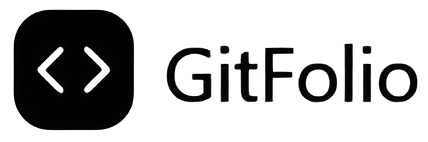
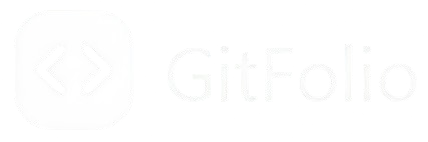
Email sending functions init

Changed region(s): [[0.0304, 0.0563, 0.3341, 0.9296], [0.3645, 0.2817, 1.0, 0.7324]]

diff --git a/packages/email/src/templates/Wrapper.tsx b/packages/email/src/templates/Wrapper.tsx
@@ -21,7 +21,10 @@ import { config } from "../config";
 export const Wrapper = ({ children }: { children: React.ReactNode }) => {
   return (
     <Html>
-      <Head />
+      <Head>
+        <meta name="color-scheme" content="light" />
+        <meta name="supported-color-schemes" content="light" />
+      </Head>
       <Tailwind
         config={{
           presets: [pixelBasedPreset],
@@ -40,19 +43,35 @@ export const Wrapper = ({ children }: { children: React.ReactNode }) => {
           },
         }}
       >
-        <Body className="bg-offwhite font-sans text-base">
+        <Body
+          className="force-light font-sans text-base"
+          style={{
+            backgroundColor: "white",
+          }}
+        >
           <Img
             src={`${config.URLS.site_url}/assets/brand-light.png`}
-            alt="Netlify"
-            className="mx-auto my-20 object-cover w-[35%]"
+            alt="GitFolio"
+            className="mx-auto my-20 object-cover w-[35%] brand-logo"
           />
-          <Container className="bg-white p-45">
+
+          <Container
+            className=" force-light p-45"
+            style={{
+              backgroundColor: "white",
+            }}
+          >
             <Heading className="my-0 text-center leading-8">
               Welcome to GitFolio
             </Heading>
 
             {children}
-            <Section className="text-center mt-10">
+            <Section
+              style={{
+                backgroundColor: "white",
+              }}
+              className="text-center mt-10"
+            >
               <table className="w-full">
                 <tr className="w-full">
                   <td align="center">
@@ -75,7 +94,10 @@ export const Wrapper = ({ children }: { children: React.ReactNode }) => {
                     <Row className="table-cell h-[44px] w-[56px] align-bottom">
                       <Column className="pr-[8px] w-full h-full">
                         <Link href={config.social_links.x}>
-                          <Img className="size-7" src={`${config.URLS.site_url}/icons/x.png`} />
+                          <Img
+                            className="size-7"
+                            src={`${config.URLS.site_url}/icons/x.png`}
+                          />
                         </Link>
                       </Column>
                       <Column className="pr-[8px] w-full h-full">
@@ -83,7 +105,8 @@ export const Wrapper = ({ children }: { children: React.ReactNode }) => {
                           href={config.social_links.linkedin}
                           className="w-full h-full"
                         >
-                          <Img className="size-7"
+                          <Img
+                            className="size-7"
                             src={`${config.URLS.site_url}/icons/linkedin.png`}
                           />
                         </Link>
@@ -91,15 +114,8 @@ export const Wrapper = ({ children }: { children: React.ReactNode }) => {
                       <Column className="pr-[8px] w-full h-full">
                         <Link href={config.social_links.github}>
                           <Img
-                          className="size-7"
+                            className="size-7"
                             src={`${config.URLS.site_url}/icons/github-black.png`}
-                          />
-                        </Link>
-                      </Column>
-                      <Column>
-                        <Link href={config.social_links.peerlist}>
-                          <Img src={`${config.URLS.site_url}/icons/peerlist.png`} 
-                          className="size-7"
                           />
                         </Link>
                       </Column>

diff --git a/packages/email/src/templates/WelcomeEmail.tsx b/packages/email/src/templates/WelcomeEmail.tsx
@@ -1,52 +1,64 @@
-import { Button, Link, Preview, Row, Section, Text } from "@react-email/components";
+import {
+  Button,
+  Link,
+  Preview,
+  Row,
+  Section,
+  Text,
+} from "@react-email/components";
 import Wrapper from "./Wrapper";
 
-import React from 'react'
+import React from "react";
 import { config } from "../config";
 
-const WelcomeEmail = ({name}:{name:string}) => {
+const WelcomeEmail = ({ name }: { name: string }) => {
   return (
     <Wrapper>
       <Preview>GitFolio Welcome</Preview>
+      <Section
+      style={{
+            backgroundColor:"white"
+          }}
+      >
+        <Row>
+          <Text className="text-base font-semibold">
+            Thanks for joining GitFolio! Let's build your developer portfolio
+          </Text>
+        </Row>
+      </Section>
+
       <Section>
-              <Row>
-                <Text className="text-base font-semibold">
-                  Thanks for joining GitFolio! Let's build your developer
-                  portfolio
-                </Text>
-              </Row>
-            </Section>
+        <Text className="font-medium m-0">Hello {name} 👋,</Text>
+        <Text className="m-0 font-medium">
+          Welcome to GitFolio! 🎉 We're excited to have you onboard.
+        </Text>
+        <Text className="font-medium">With GitFolio, you can:</Text>
 
-            <Section>
-              <Text className="font-medium m-0">Hello {name} 👋,</Text>
-              <Text className="m-0 font-medium">
-                Welcome to GitFolio! 🎉 We're excited to have you onboard.
-              </Text>
-              <Text className="font-medium">With GitFolio, you can:</Text>
+        <ul className="list-outside list-none">
+          <li>
+            🚀 Instantly create a professional portfolio from your GitHub
+            projects
+          </li>
+          <li>🎨 Choose from modern, developer-friendly templates</li>
+          <li>🌐 Share your work with the world in just a few clicks</li>
+        </ul>
+        <Row>
+          👉 Next step: Log in to your dashboard and set up your first
+          portfolio.
+        </Row>
+      </Section>
 
-              <ul className="list-outside list-none">
-                <li>
-                  🚀 Instantly create a professional portfolio from your GitHub
-                  projects
-                </li>
-                <li>🎨 Choose from modern, developer-friendly templates</li>
-                <li>🌐 Share your work with the world in just a few clicks</li>
-              </ul>
-              <Row>
-                👉 Next step: Log in to your dashboard and set up your first
-                portfolio.
-              </Row>
-            </Section>
-
-            <Section className="text-center mt-10">
-              <Link href={`${config.URLS.site_url}/dashboard`}>
-                <Button className="rounded-md bg-black px-[18px] py-3 text-white">
-                  Visit Dashboard
-                </Button>
-              </Link>
-            </Section>
+      <Section className="text-center mt-10">
+        <Button
+          href={`${config.URLS.site_url}/dashboard`}
+          target="_blank"
+          className="rounded-md bg-black text-white px-[18px] py-3  cursor-pointer btn"
+        >
+          Visit Dashboard
+        </Button>
+      </Section>
     </Wrapper>
-  )
-}
+  );
+};
 
-export default WelcomeEmail
+export default WelcomeEmail;

diff --git a/apps/emails/src/index.ts b/apps/emails/src/index.ts
@@ -1,22 +1,82 @@
-import express from "express"
-import cors from "cors"
-import dotenv from "dotenv"
-import { Resend } from "resend"
-import {rednerWelcomeEmail,renderOnBoardingEmail,renderTemplateActivationReminderEmail} from "@workspace/email"
-dotenv.config()
-const resend = new Resend(process.env.RESEND_API_KEY)
-const app = express()
-app.use(cors())
-app.use(express.json())
+import express from "express";
+import cors from "cors";
+import dotenv from "dotenv";
+import { Resend } from "resend";
+import {
+  rednerWelcomeEmail,
+  renderOnBoardingEmail,
+  renderTemplateActivationReminderEmail,
+} from "@workspace/email";
+import prisma from "@workspace/db";
+dotenv.config();
+const resend = new Resend(process.env.RESEND_API_KEY);
+const app = express();
+app.use(cors());
+app.use(express.json());
 
-app.get("/",async(req,res)=>{
-    let a = await resend.emails.send({
-        from:"GitFolio <notify@updates.gitfolio.in>",
-        to:"dhumalomkar233@gmail.com",
-        subject:"Welcome Email",
-        html: await renderTemplateActivationReminderEmail("Omkar")
-    })
-res.send(a)
-})
+app.get("/", async (req, res) => {
+  let a = await resend.emails.send({
+    from: "GitFolio <notify@updates.gitfolio.in>",
+    to: "dhumalomkar233@gmail.com",
+    subject: "Welcome Email",
+    html: await renderTemplateActivationReminderEmail("Omkar"),
+  });
+  res.send(a);
+});
 
-app.listen(8000,()=>console.log("App running"))
+app.listen(8000, () => console.log("app running"));
+
+const onBoardingReminder = async () => {
+  try {
+    const users = await prisma.user.findMany({
+      where: {
+        onBoardingStatus: false,
+      },
+    });
+    console.log(users);
+    await Promise.all(
+      users.map((user) => sendEmail(user.firstname, user.email, "onboarding"))
+    );
+  } catch (e) {
+    console.log(e);
+  }
+};
+
+const templateActivationReminder = async () => {
+  const users = await prisma.user.findMany({
+    where: { activeTemplateId: null },
+  });
+  for (const user of users) {
+    try {
+      let a = await sendEmail(user.firstname, user.email, "template_reminder");
+      console.log(a);
+    } catch (e) {
+      console.log(e);
+    }
+  }
+};
+
+type EmailType = "welcome" | "onboarding" | "template_reminder";
+const sendEmail = async (name: string, email: string, type: EmailType) => {
+  let subject, template;
+  switch (type) {
+    case "welcome":
+      subject = "Welcome to GitFolio";
+      template = rednerWelcomeEmail;
+      break;
+    case "onboarding":
+      subject = "Complete OnBoarding Process";
+      template = renderOnBoardingEmail;
+      break;
+    case "template_reminder":
+      subject = "Active a Template";
+      template = renderTemplateActivationReminderEmail;
+      break;
+  }
+  return await resend.emails.send({
+    from: "GitFolio <notify@updates.gitfolio.in>",
+    to: email,
+    subject: subject,
+    html: await template(name),
+  });
+};

diff --git a/packages/email/src/templates/OnboardingEmail.tsx b/packages/email/src/templates/OnboardingEmail.tsx
@@ -11,14 +11,19 @@ import Wrapper from "./Wrapper";
 import React from "react";
 import { config } from "../config";
 
-const OnBoardingEmail = ({name}:{name:string}) => {
+const OnBoardingEmail = ({ name }: { name: string }) => {
   return (
     <Wrapper>
       <Preview>Complete OnBoarding...</Preview>
-      <Section>
+      <Section
+        style={{
+          backgroundColor: "white",
+        }}
+      >
         <Row>
           <Text className="text-base font-semibold">
-            Thanks for joining GitFolio! Complete your OnBoarding process to get started.
+            Thanks for joining GitFolio! Complete your OnBoarding process to get
+            started.
           </Text>
         </Row>
       </Section>
@@ -43,11 +48,13 @@ const OnBoardingEmail = ({name}:{name:string}) => {
       </Section>
 
       <Section className="text-center mt-10">
-        <Link href={`${config.URLS.site_url}/onboarding`}>
-          <Button className="rounded-md bg-black px-[18px] py-3 text-white">
-            Complete OnBoarding
-          </Button>
-        </Link>
+        <Button
+          href={`${config.URLS.site_url}/onboarding`}
+          target="_blank"
+          className="rounded-md bg-black px-[18px] py-3  cursor-pointer text-white"
+        >
+          Complete OnBoarding
+        </Button>
       </Section>
     </Wrapper>
   );

diff --git a/packages/email/src/templates/TemplateActivationReminderEmail.tsx b/packages/email/src/templates/TemplateActivationReminderEmail.tsx
@@ -9,11 +9,15 @@ import {
   Text,
 } from "@react-email/components";
 import { config } from "../config";
-const TemplateActivationReminderEmail = ({name}:{name:string}) => {
+const TemplateActivationReminderEmail = ({ name }: { name: string }) => {
   return (
     <Wrapper>
       <Preview>Activte a Template</Preview>
-      <Section>
+      <Section
+        style={{
+          backgroundColor: "white",
+        }}
+      >
         <Row>
           <Text className="text-base font-semibold">
             Thanks for joining GitFolio! Activte a template and make your
@@ -40,11 +44,13 @@ const TemplateActivationReminderEmail = ({name}:{name:string}) => {
         </ul>
       </Section>
       <Section className="text-center mt-10">
-        <Link href={`${config.URLS.site_url}/onboarding`}>
-          <Button className="rounded-md bg-black px-[18px] py-3 text-white">
-            Visit DashBoard
-          </Button>
-        </Link>
+        <Button
+          href={`${config.URLS.site_url}/onboarding`}
+          target="_blank"
+          className="rounded-md bg-black px-[18px] py-3 text-white cursor-pointer"
+        >
+          Visit DashBoard
+        </Button>
       </Section>
     </Wrapper>
   );

diff --git a/packages/email/src/config.ts b/packages/email/src/config.ts
@@ -1,6 +1,3 @@
-import dotnev from "dotenv"
-
-dotnev.config()
 export const config = {
     social_links:{
         x:"https://x.com/SKB3611",
@@ -12,5 +9,4 @@ export const config = {
         site_url:"https://gitfolio.in",
         renderer_url:"https://portfolio.gitfolio.in"
     },
-    RESEND_API_KEY:process.env.RESEND_API_KEY
 }
